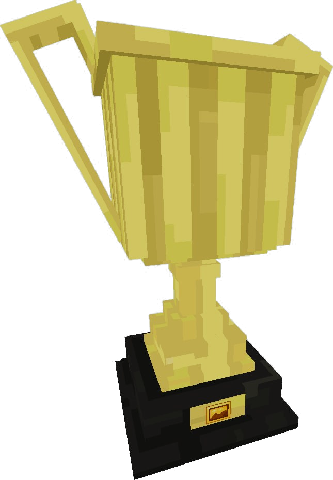
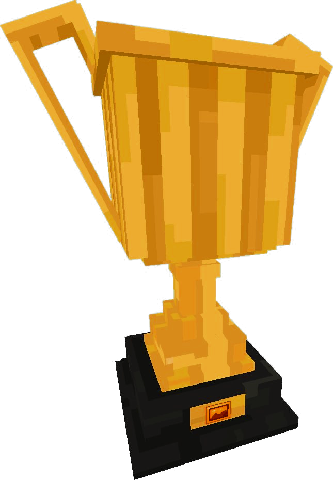
Add files via upload

diff --git a/index.html b/index.html
@@ -1,1 +1,1 @@
-<!DOCTYPE html><html lang="ru"><head><meta charset="utf-8"><meta name="viewport" content="width=device-width, initial-scale=1, viewport-fit=cover"><meta name="theme-color" content="#0d0a14"><title>Премия лучших майнкрафт карт — МапПремия</title><link rel="preload" href="minecraft-ten-font-cyrillic.woff2" as="font" type="font/woff2" crossorigin><link rel="stylesheet" href="style.css?v=13"><link rel="icon" href="favicon.ico?v=13" sizes="any"><link rel="icon" type="image/png" sizes="32x32" href="favicon-32.png?v=13"><link rel="icon" type="image/png" sizes="192x192" href="favicon-192.png?v=13"><link rel="apple-touch-icon" href="apple-touch-icon.png?v=13"></head><body data-page="home"><div id="load"><b>МапПремия</b><span><i></i></span></div><script>setTimeout(function(){var l=document.getElementById("load");l&&l.remove()},9000)</script><main><div class="hero"><div class="trophy" aria-hidden="true"></div><h1>МапПремия</h1><p class="sub">Премия лучших майнкрафт карт</p><p class="lead slogan">Карты говорят сами. Выбери лучшие</p><a class="btn" href="apply.html">Подать заявку</a><a class="btn ghost" href="nominations.html">Смотреть номинации</a></div><div class="stats" id="stats"></div><h2>Как это работает?</h2><div class="text how"><p>Привет! Здесь расскажем о том, как устроена премия: есть несколько этапов, на первом мы в режиме онлайн-трансляций отсекаем карты, которые, увы, в этом году недостойны пройти в финал номинации. Далее на финал номинации остается 6 карт и вы, аудитория, голосуете за лучшую!</p></div><h2>О премии</h2><div class="text"><p>Текст-заглушка. Здесь будет рассказ о премии, целях и организаторах.</p><p>Ещё один абзац-заглушка: как выбираются победители и когда церемония.</p></div></main><script type="module" src="app.js?v=13"></script><script type="module" src="bg.js"></script></body></html>
+<!DOCTYPE html><html lang="ru"><head><meta charset="utf-8"><meta name="viewport" content="width=device-width, initial-scale=1, viewport-fit=cover"><meta name="theme-color" content="#0d0a14"><title>Премия лучших майнкрафт карт — МапПремия</title><link rel="preload" href="minecraft-ten-font-cyrillic.woff2" as="font" type="font/woff2" crossorigin><link rel="stylesheet" href="style.css?v=14"><link rel="icon" href="favicon.ico?v=14" sizes="any"><link rel="icon" type="image/png" sizes="32x32" href="favicon-32.png?v=14"><link rel="icon" type="image/png" sizes="192x192" href="favicon-192.png?v=14"><link rel="apple-touch-icon" href="apple-touch-icon.png?v=14"></head><body data-page="home"><div id="load"><b>МапПремия</b><span><i></i></span></div><script>setTimeout(function(){var l=document.getElementById("load");l&&l.remove()},9000)</script><main><div class="hero"><div class="trophy" aria-hidden="true"></div><h1>МапПремия</h1><p class="sub">Премия лучших майнкрафт карт</p><p class="lead slogan">Карты говорят сами. Выбери лучшие</p><a class="btn" href="apply.html">Подать заявку</a><a class="btn ghost" href="nominations.html">Смотреть номинации</a></div><div class="stats" id="stats"></div><h2>Как это работает?</h2><div class="text how"><p>Привет! Здесь расскажем о том, как устроена премия: есть несколько этапов, на первом мы в режиме онлайн-трансляций отсекаем карты, которые, увы, в этом году недостойны пройти в финал номинации. Далее на финал номинации остается 6 карт и вы, аудитория, голосуете за лучшую!</p></div><h2>О премии</h2><div class="text"><p>Текст-заглушка. Здесь будет рассказ о премии, целях и организаторах.</p><p>Ещё один абзац-заглушка: как выбираются победители и когда церемония.</p></div></main><script type="module" src="app.js?v=14"></script><script type="module" src="bg.js"></script></body></html>

diff --git a/apply.html b/apply.html
@@ -1,4 +1,4 @@
-<!DOCTYPE html><html lang="ru"><head><meta charset="utf-8"><meta name="viewport" content="width=device-width, initial-scale=1, viewport-fit=cover"><meta name="theme-color" content="#0d0a14"><title>Подать заявку — МапПремия</title><link rel="preload" href="minecraft-ten-font-cyrillic.woff2" as="font" type="font/woff2" crossorigin><link rel="stylesheet" href="style.css?v=13"><link rel="icon" href="favicon.ico?v=13" sizes="any"><link rel="icon" type="image/png" sizes="32x32" href="favicon-32.png?v=13"><link rel="icon" type="image/png" sizes="192x192" href="favicon-192.png?v=13"><link rel="apple-touch-icon" href="apple-touch-icon.png?v=13"></head><body data-page="apply"><div id="load"><b>МапПремия</b><span><i></i></span></div><script>setTimeout(function(){var l=document.getElementById("load");l&&l.remove()},9000)</script><main class="apply"><div class="ahero"><h2>Подать заявку</h2><p>Расскажи о своей карте. После проверки она появится в выбранных номинациях.</p><p class="limits">С одного аккаунта можно подать не больше 5 заявок, а в каждой заявке выбрать не больше 5 номинаций.</p></div><div id="authbox"></div>
+<!DOCTYPE html><html lang="ru"><head><meta charset="utf-8"><meta name="viewport" content="width=device-width, initial-scale=1, viewport-fit=cover"><meta name="theme-color" content="#0d0a14"><title>Подать заявку — МапПремия</title><link rel="preload" href="minecraft-ten-font-cyrillic.woff2" as="font" type="font/woff2" crossorigin><link rel="stylesheet" href="style.css?v=14"><link rel="icon" href="favicon.ico?v=14" sizes="any"><link rel="icon" type="image/png" sizes="32x32" href="favicon-32.png?v=14"><link rel="icon" type="image/png" sizes="192x192" href="favicon-192.png?v=14"><link rel="apple-touch-icon" href="apple-touch-icon.png?v=14"></head><body data-page="apply"><div id="load"><b>МапПремия</b><span><i></i></span></div><script>setTimeout(function(){var l=document.getElementById("load");l&&l.remove()},9000)</script><main class="apply"><div class="ahero"><h2>Подать заявку</h2><p>Расскажи о своей карте. После проверки она появится в выбранных номинациях.</p><p class="limits">С одного аккаунта можно подать не больше 5 заявок, а в каждой заявке выбрать не больше 5 номинаций.</p></div><div id="authbox"></div>
 <form id="form" hidden>
 <section class="panel"><h3><i>1</i>О карте</h3>
 <label>Название карты<input name="name" required maxlength="200" placeholder="Как называется карта"></label>
@@ -16,4 +16,4 @@
 </section>
 </form>
 <div id="done" class="panel done" hidden><img id="dimg" class="dimg" alt=""><h3>Заявка отправлена!</h3><p>Мы проверим её и свяжемся с тобой. Одобренная карта появится в выбранных номинациях.</p><div class="bar"><button class="btn" id="again" type="button">Подать ещё одну</button><a class="btn ghost" href="nominations.html">К номинациям</a></div></div>
-</main><script type="module" src="app.js?v=13"></script></body></html>
+</main><script type="module" src="app.js?v=14"></script></body></html>

diff --git a/rules.html b/rules.html
@@ -1,1 +1,1 @@
-<!DOCTYPE html><html lang="ru"><head><meta charset="utf-8"><meta name="viewport" content="width=device-width, initial-scale=1, viewport-fit=cover"><meta name="theme-color" content="#0d0a14"><title>Правила — МапПремия</title><link rel="preload" href="minecraft-ten-font-cyrillic.woff2" as="font" type="font/woff2" crossorigin><link rel="stylesheet" href="style.css?v=13"><link rel="icon" href="favicon.ico?v=13" sizes="any"><link rel="icon" type="image/png" sizes="32x32" href="favicon-32.png?v=13"><link rel="icon" type="image/png" sizes="192x192" href="favicon-192.png?v=13"><link rel="apple-touch-icon" href="apple-touch-icon.png?v=13"></head><body data-page="rules"><div id="load"><b>МапПремия</b><span><i></i></span></div><script>setTimeout(function(){var l=document.getElementById("load");l&&l.remove()},9000)</script><main><h2>Правила</h2><div class="text"><p>Текст-заглушка: кто может участвовать.</p><p>Текст-заглушка: какие карты допускаются (версия, дата выхода, язык).</p><p>Текст-заглушка: как проходит голосование аудитории и как определяются победители.</p><p>Текст-заглушка: сроки этапов.</p></div></main><script type="module" src="app.js?v=13"></script></body></html>
+<!DOCTYPE html><html lang="ru"><head><meta charset="utf-8"><meta name="viewport" content="width=device-width, initial-scale=1, viewport-fit=cover"><meta name="theme-color" content="#0d0a14"><title>Правила — МапПремия</title><link rel="preload" href="minecraft-ten-font-cyrillic.woff2" as="font" type="font/woff2" crossorigin><link rel="stylesheet" href="style.css?v=14"><link rel="icon" href="favicon.ico?v=14" sizes="any"><link rel="icon" type="image/png" sizes="32x32" href="favicon-32.png?v=14"><link rel="icon" type="image/png" sizes="192x192" href="favicon-192.png?v=14"><link rel="apple-touch-icon" href="apple-touch-icon.png?v=14"></head><body data-page="rules"><div id="load"><b>МапПремия</b><span><i></i></span></div><script>setTimeout(function(){var l=document.getElementById("load");l&&l.remove()},9000)</script><main><h2>Правила</h2><div class="text"><p>Текст-заглушка: кто может участвовать.</p><p>Текст-заглушка: какие карты допускаются (версия, дата выхода, язык).</p><p>Текст-заглушка: как проходит голосование аудитории и как определяются победители.</p><p>Текст-заглушка: сроки этапов.</p></div></main><script type="module" src="app.js?v=14"></script></body></html>

diff --git a/admin.html b/admin.html
@@ -1,7 +1,7 @@
-<!DOCTYPE html><html lang="ru"><head><meta charset="utf-8"><meta name="viewport" content="width=device-width, initial-scale=1, viewport-fit=cover"><meta name="theme-color" content="#0d0a14"><title>Управление — МапПремия</title><link rel="preload" href="minecraft-ten-font-cyrillic.woff2" as="font" type="font/woff2" crossorigin><link rel="stylesheet" href="style.css?v=13"><link rel="icon" href="favicon.ico?v=13" sizes="any"><link rel="icon" type="image/png" sizes="32x32" href="favicon-32.png?v=13"><link rel="icon" type="image/png" sizes="192x192" href="favicon-192.png?v=13"><link rel="apple-touch-icon" href="apple-touch-icon.png?v=13"></head><body data-page="admin"><div id="load"><b>МапПремия</b><span><i></i></span></div><script>setTimeout(function(){var l=document.getElementById("load");l&&l.remove()},9000)</script><main><h2>Управление</h2><div id="box"></div></main>
+<!DOCTYPE html><html lang="ru"><head><meta charset="utf-8"><meta name="viewport" content="width=device-width, initial-scale=1, viewport-fit=cover"><meta name="theme-color" content="#0d0a14"><title>Управление — МапПремия</title><link rel="preload" href="minecraft-ten-font-cyrillic.woff2" as="font" type="font/woff2" crossorigin><link rel="stylesheet" href="style.css?v=14"><link rel="icon" href="favicon.ico?v=14" sizes="any"><link rel="icon" type="image/png" sizes="32x32" href="favicon-32.png?v=14"><link rel="icon" type="image/png" sizes="192x192" href="favicon-192.png?v=14"><link rel="apple-touch-icon" href="apple-touch-icon.png?v=14"></head><body data-page="admin"><div id="load"><b>МапПремия</b><span><i></i></span></div><script>setTimeout(function(){var l=document.getElementById("load");l&&l.remove()},9000)</script><main><h2>Управление</h2><div id="box"></div></main>
 <script type="module">
-import {ready,db,auth,FS,AU} from './fb.js?v=13';
-import {esc,DEFAULT,iconOf} from './app.js?v=13';
+import {ready,db,auth,FS,AU} from './fb.js?v=14';
+import {esc,DEFAULT,iconOf} from './app.js?v=14';
 const $=s=>document.querySelector(s),box=$('#box'),LBL={new:'Новая',approved:'Одобрена',rejected:'Отклонена'};
 const col=n=>FS.collection(db,n),ref=(n,i)=>FS.doc(db,n,i);
 // сжимает картинку в маленький JPEG прямо внутри записи, поэтому её видят все, а не только ты

diff --git a/nominations.html b/nominations.html
@@ -1,1 +1,1 @@
-<!DOCTYPE html><html lang="ru"><head><meta charset="utf-8"><meta name="viewport" content="width=device-width, initial-scale=1, viewport-fit=cover"><meta name="theme-color" content="#0d0a14"><title>Номинации — МапПремия</title><link rel="preload" href="minecraft-ten-font-cyrillic.woff2" as="font" type="font/woff2" crossorigin><link rel="stylesheet" href="style.css?v=13"><link rel="icon" href="favicon.ico?v=13" sizes="any"><link rel="icon" type="image/png" sizes="32x32" href="favicon-32.png?v=13"><link rel="icon" type="image/png" sizes="192x192" href="favicon-192.png?v=13"><link rel="apple-touch-icon" href="apple-touch-icon.png?v=13"></head><body data-page="nominations"><div id="load"><b>МапПремия</b><span><i></i></span></div><script>setTimeout(function(){var l=document.getElementById("load");l&&l.remove()},9000)</script><main><h2>Номинации</h2><div class="npages" id="noms"></div><nav class="pager" id="pager" aria-label="Страницы номинаций"></nav></main><script type="module" src="app.js?v=13"></script></body></html>
+<!DOCTYPE html><html lang="ru"><head><meta charset="utf-8"><meta name="viewport" content="width=device-width, initial-scale=1, viewport-fit=cover"><meta name="theme-color" content="#0d0a14"><title>Номинации — МапПремия</title><link rel="preload" href="minecraft-ten-font-cyrillic.woff2" as="font" type="font/woff2" crossorigin><link rel="stylesheet" href="style.css?v=14"><link rel="icon" href="favicon.ico?v=14" sizes="any"><link rel="icon" type="image/png" sizes="32x32" href="favicon-32.png?v=14"><link rel="icon" type="image/png" sizes="192x192" href="favicon-192.png?v=14"><link rel="apple-touch-icon" href="apple-touch-icon.png?v=14"></head><body data-page="nominations"><div id="load"><b>МапПремия</b><span><i></i></span></div><script>setTimeout(function(){var l=document.getElementById("load");l&&l.remove()},9000)</script><main><h2>Номинации</h2><div class="npages" id="noms"></div><nav class="pager" id="pager" aria-label="Страницы номинаций"></nav></main><script type="module" src="app.js?v=14"></script></body></html>

diff --git a/nomination.html b/nomination.html
@@ -1,1 +1,1 @@
-<!DOCTYPE html><html lang="ru"><head><meta charset="utf-8"><meta name="viewport" content="width=device-width, initial-scale=1, viewport-fit=cover"><meta name="theme-color" content="#0d0a14"><title>Номинация — МапПремия</title><link rel="preload" href="minecraft-ten-font-cyrillic.woff2" as="font" type="font/woff2" crossorigin><link rel="stylesheet" href="style.css?v=13"><link rel="icon" href="favicon.ico?v=13" sizes="any"><link rel="icon" type="image/png" sizes="32x32" href="favicon-32.png?v=13"><link rel="icon" type="image/png" sizes="192x192" href="favicon-192.png?v=13"><link rel="apple-touch-icon" href="apple-touch-icon.png?v=13"></head><body data-page="nomination"><div id="load"><b>МапПремия</b><span><i></i></span></div><script>setTimeout(function(){var l=document.getElementById("load");l&&l.remove()},9000)</script><main><a class="back" href="nominations.html">← Все номинации</a><div class="nhead" id="nhead"></div><div class="grid" id="grid"></div></main><script type="module" src="app.js?v=13"></script></body></html>
+<!DOCTYPE html><html lang="ru"><head><meta charset="utf-8"><meta name="viewport" content="width=device-width, initial-scale=1, viewport-fit=cover"><meta name="theme-color" content="#0d0a14"><title>Номинация — МапПремия</title><link rel="preload" href="minecraft-ten-font-cyrillic.woff2" as="font" type="font/woff2" crossorigin><link rel="stylesheet" href="style.css?v=14"><link rel="icon" href="favicon.ico?v=14" sizes="any"><link rel="icon" type="image/png" sizes="32x32" href="favicon-32.png?v=14"><link rel="icon" type="image/png" sizes="192x192" href="favicon-192.png?v=14"><link rel="apple-touch-icon" href="apple-touch-icon.png?v=14"></head><body data-page="nomination"><div id="load"><b>МапПремия</b><span><i></i></span></div><script>setTimeout(function(){var l=document.getElementById("load");l&&l.remove()},9000)</script><main><a class="back" href="nominations.html">← Все номинации</a><div class="nhead" id="nhead"></div><div class="grid" id="grid"></div></main><script type="module" src="app.js?v=14"></script></body></html>

diff --git a/style.css b/style.css
@@ -117,9 +117,9 @@ h2::before{content:"";flex:none;width:.5em;height:.5em;background:var(--acc);box
 .hero{position:relative;background:var(--bg2);border:3px solid var(--line);border-top:6px solid var(--acc);border-radius:10px;box-shadow:0 8px 0 #000a;padding:clamp(2rem,6vw,4.5rem);margin-top:2rem}
 .hero h1{font-size:clamp(2.6rem,10.5vw,7.5rem);letter-spacing:0;color:transparent;background:linear-gradient(#fff1a8,#ffc83d 55%,#d98c00);-webkit-background-clip:text;background-clip:text;filter:drop-shadow(.05em .06em 0 #4a3000)}
 .hero .lead.slogan{font-size:clamp(1.2rem,3vw,1.9rem);line-height:1.3;color:var(--tx);max-width:26ch}
-.trophy{position:absolute;right:clamp(1.5rem,5vw,4rem);top:50%;width:194px;height:280px;margin-top:-30px;background:url(trophy.png?v=13) center/contain no-repeat;image-rendering:pixelated;animation:fl 3s steps(6) infinite alternate}
+.trophy{position:absolute;right:clamp(1.5rem,5vw,4rem);top:50%;width:194px;height:280px;margin-top:-150px;background:url(trophy.png?v=14) center/contain no-repeat;image-rendering:pixelated;animation:fl 3s steps(6) infinite alternate}
 
-@keyframes fl{to{margin-top:-44px}}
+@keyframes fl{to{margin-top:-164px}}
 @media(max-width:820px){.trophy{display:none}}
 .noms{border-radius:10px;border:3px solid var(--line)}
 .card{border:3px solid var(--line);border-bottom:6px solid var(--c,var(--acc));border-radius:8px}

diff --git a/app.js b/app.js
@@ -1,4 +1,4 @@
-import {ready,db,auth,FS,AU} from './fb.js?v=13';
+import {ready,db,auth,FS,AU} from './fb.js?v=14';
 export const DEFAULT=[
  {id:'best',t:'Лучшая карта',d:'Главная номинация премии. Текст-заглушка.',c:'#b8f25b'},
  {id:'scary',t:'Самая страшная карта',d:'Текст-заглушка описания номинации.',c:'#ff6b5e'},
@@ -119,7 +119,7 @@ const confetti=(n=46)=>{
   const cxm=innerWidth/2,cym=innerHeight*.42;
   for(let i=0;i<n;i++){
     const x=Math.random()*innerWidth,y=Math.random()*innerHeight,l=.7+Math.random()*.6;
-    const dx=cxm-x,dy=cym-y,d=Math.hypot(dx,dy)||1,v=130+Math.random()*180,sw=(Math.random()-.5)*160;
+    const dx=cxm-x,dy=cym-y,d=Math.hypot(dx,dy)||1,v=140+Math.random()*180,sw=(Math.random()-.5)*160;
     add({x,y,vx:dx/d*v-dy/d*sw,vy:dy/d*v+dx/d*sw,g:60,s:[2,4][Math.random()*2|0],c:pick(),life:l,max:l});
   }
 };

diff --git a/fb.js b/fb.js
@@ -2,7 +2,7 @@ import {initializeApp} from 'https://www.gstatic.com/firebasejs/10.14.1/firebase
 import * as FS from 'https://www.gstatic.com/firebasejs/10.14.1/firebase-firestore.js';
 import * as AU from 'https://www.gstatic.com/firebasejs/10.14.1/firebase-auth.js';
 import {firebaseConfig} from './firebase-config.js';
-import {appCheckKey} from './appcheck-config.js?v=13';
+import {appCheckKey} from './appcheck-config.js?v=14';
 export const ready=!!firebaseConfig.apiKey&&!firebaseConfig.apiKey.startsWith('ВСТАВЬ');
 const app=ready?initializeApp(firebaseConfig):null;
 if(ready&&appCheckKey){try{const AC=await import('https://www.gstatic.com/firebasejs/10.14.1/firebase-app-check.js');AC.initializeAppCheck(app,{provider:new AC.ReCaptchaV3Provider(appCheckKey),isTokenAutoRefreshEnabled:true})}catch(e){}}
